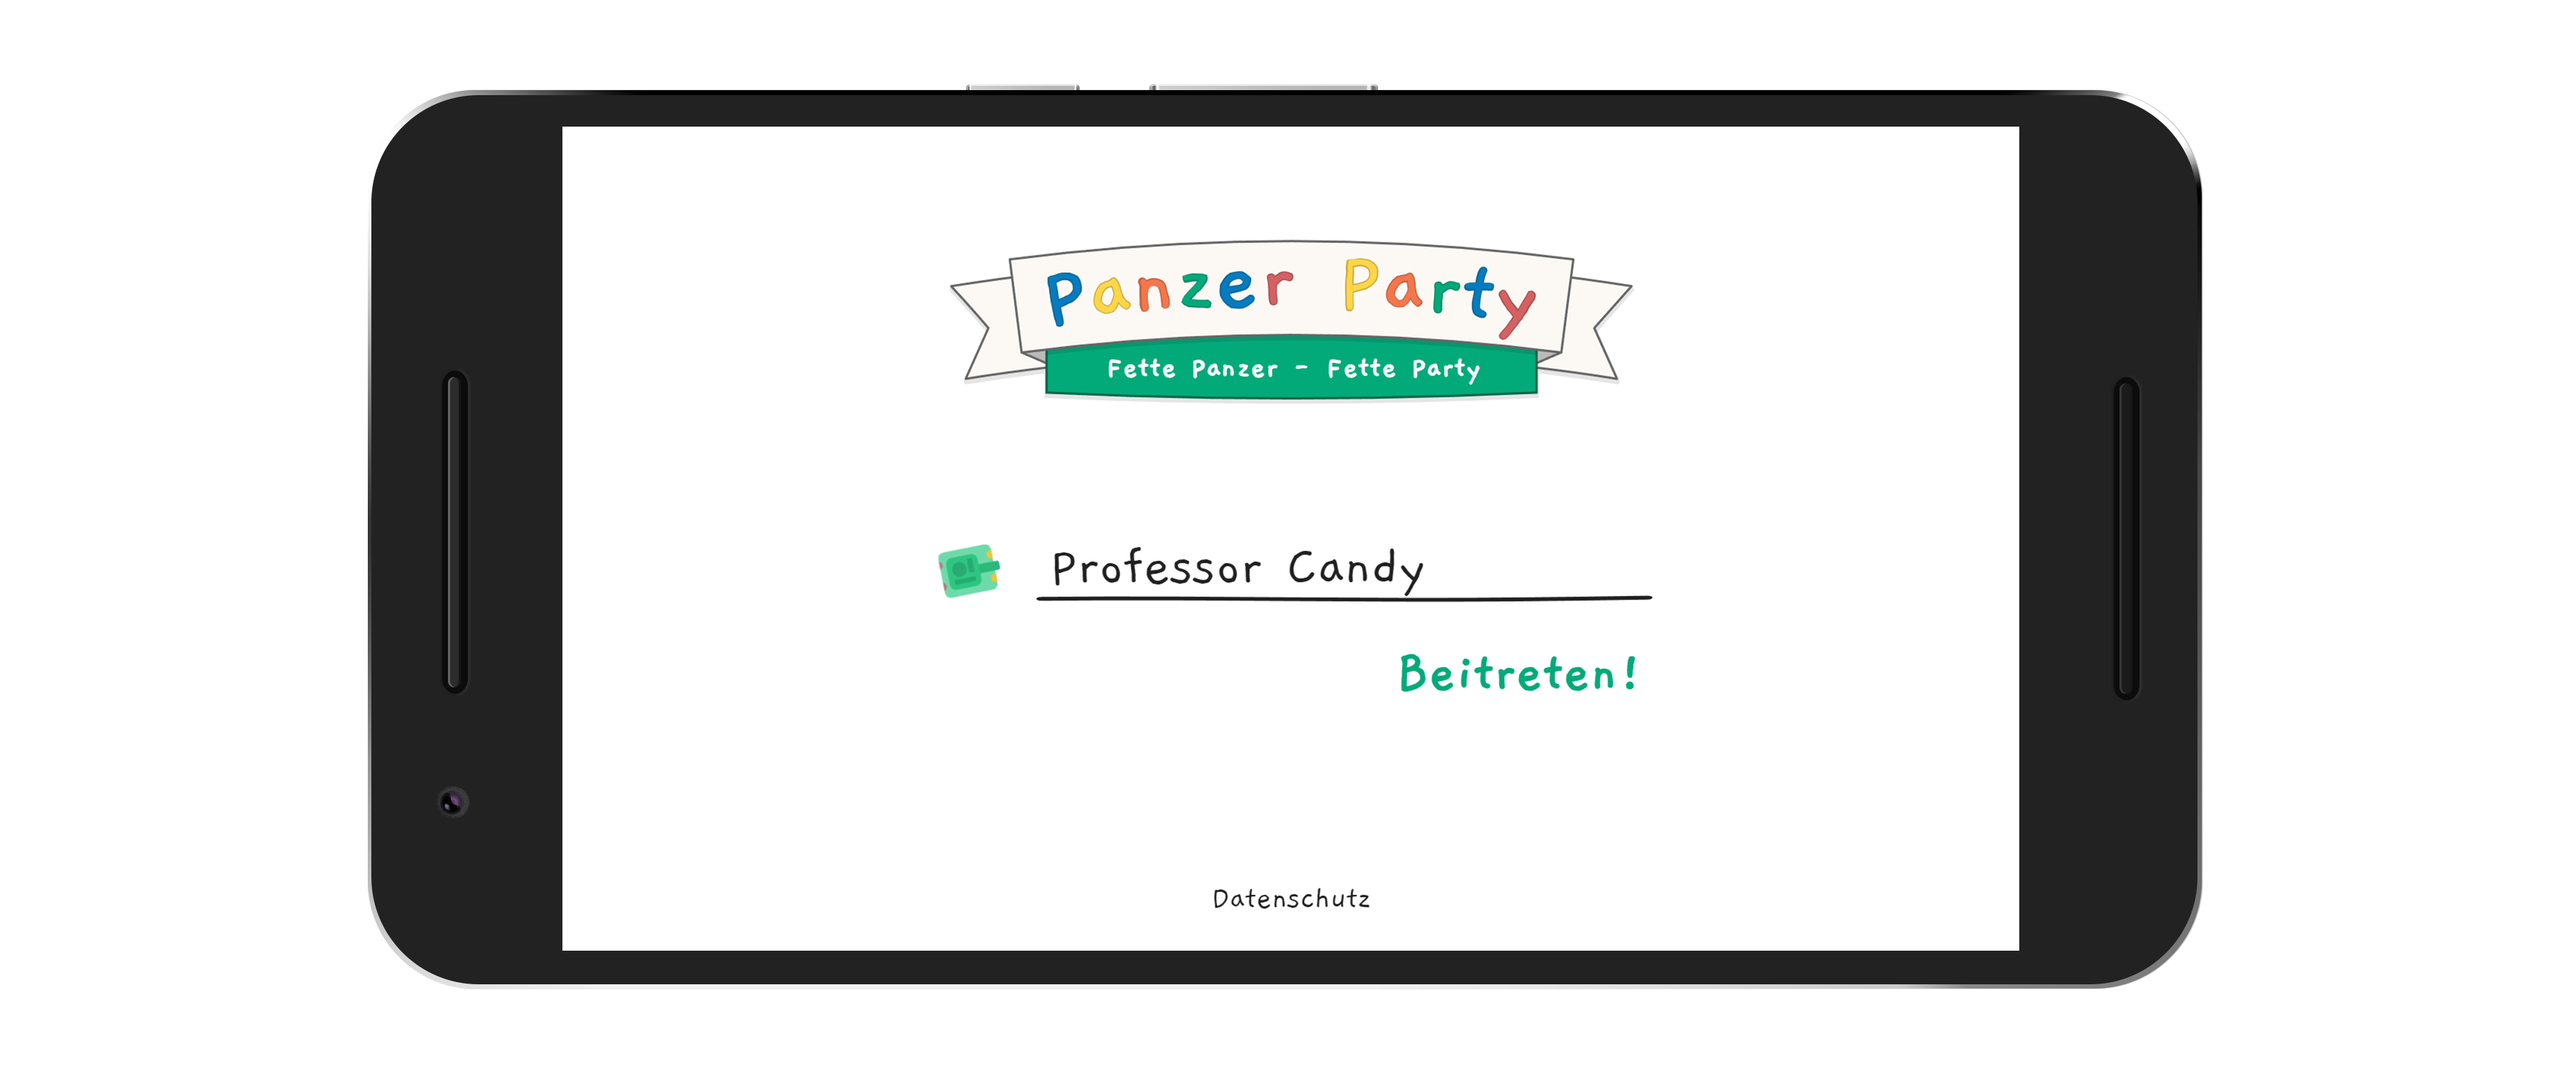
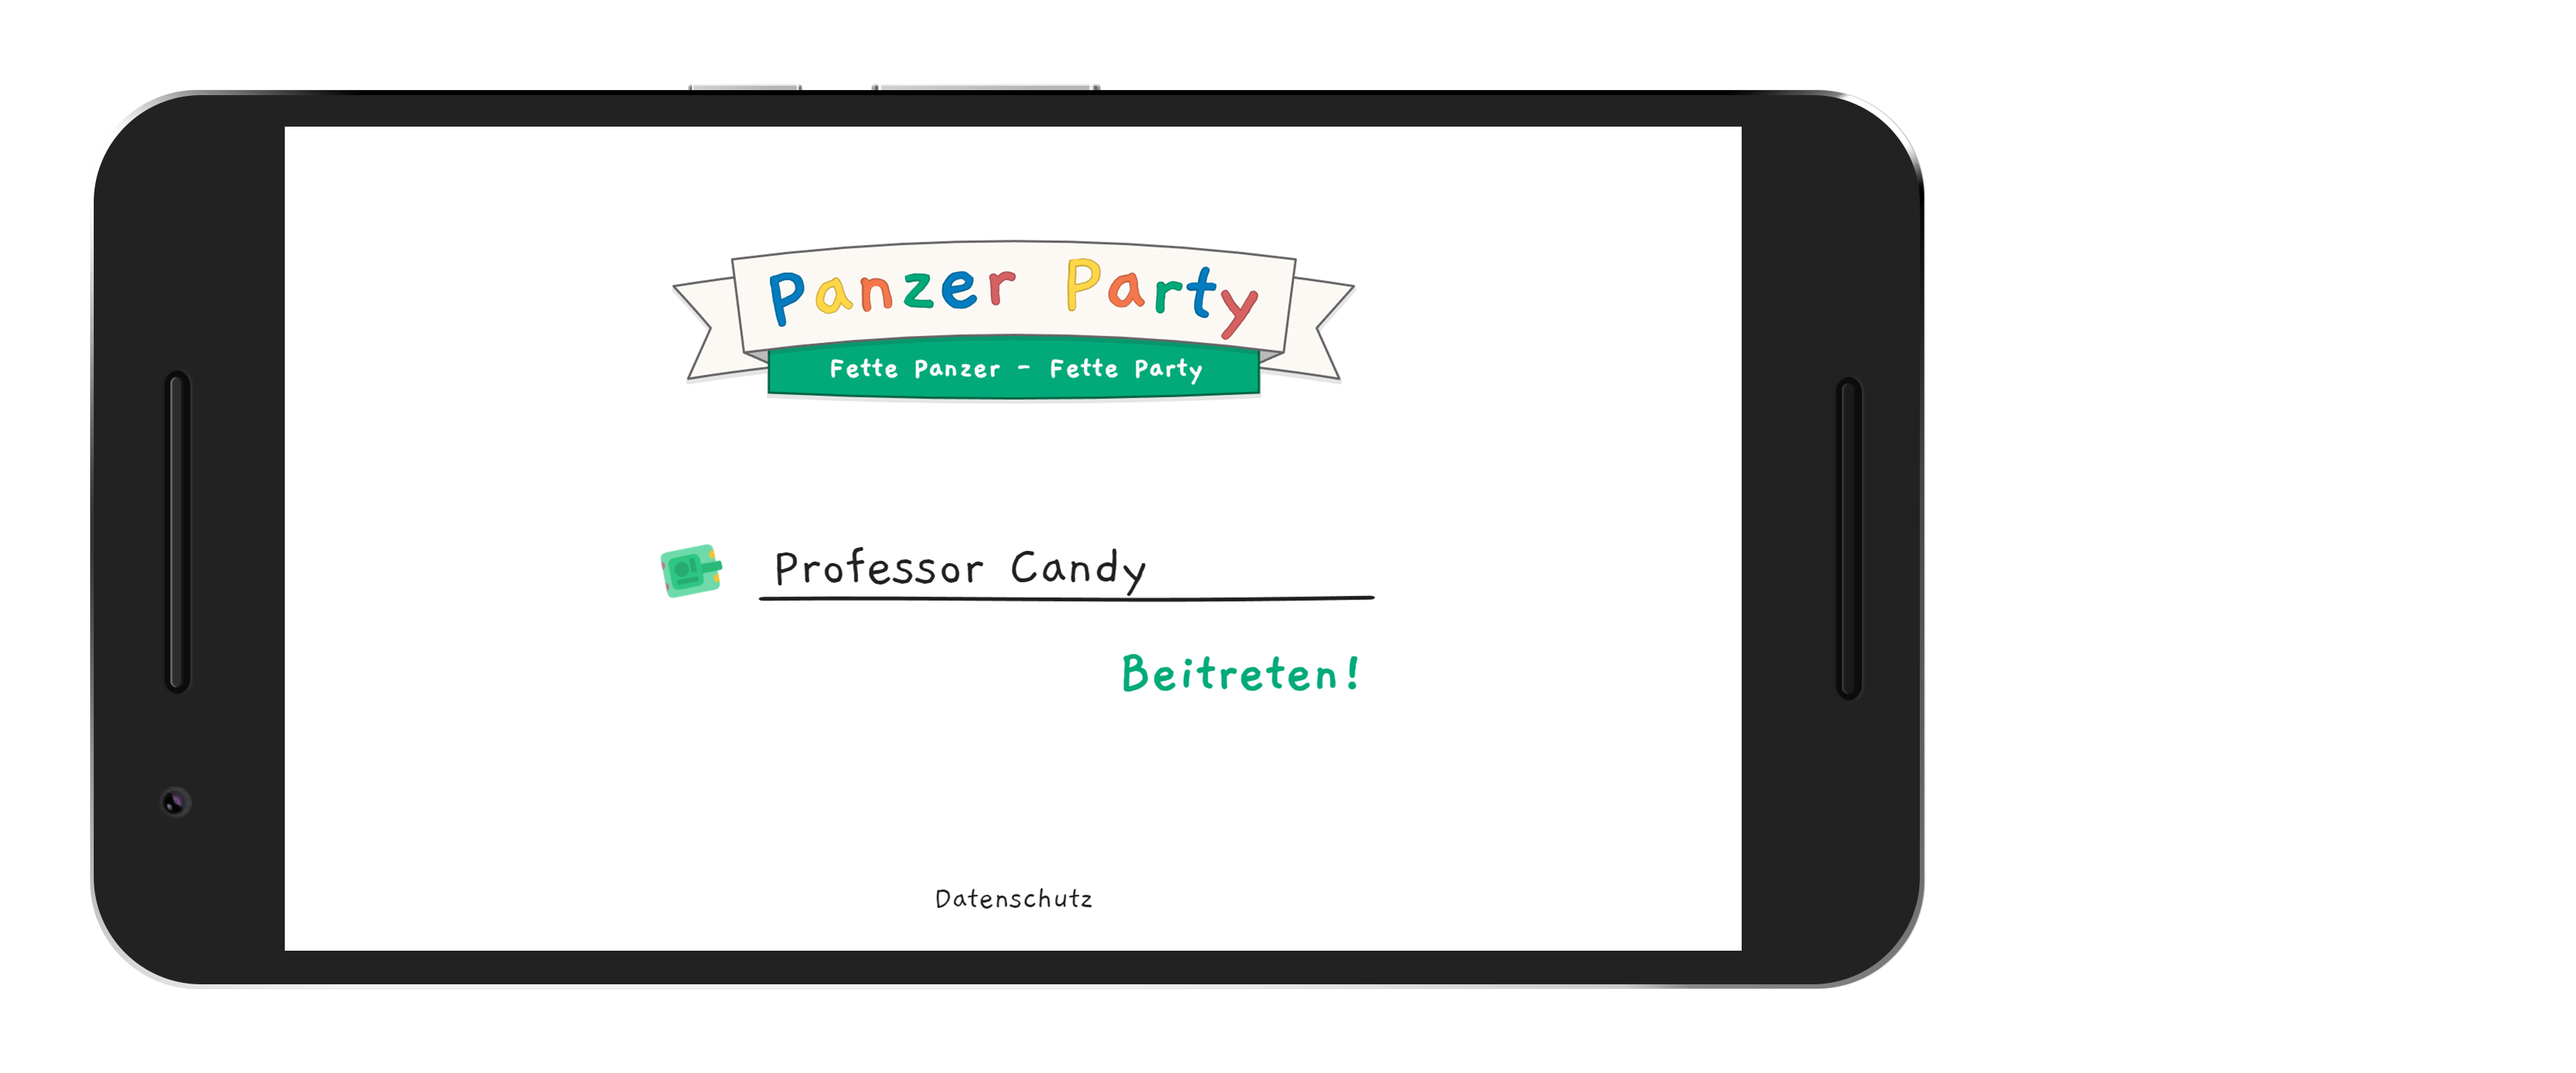
Fixes

diff --git a/public/scripts/drawing_functions.js b/public/scripts/drawing_functions.js
@@ -107,7 +107,30 @@ CanvasRenderingContext2D.prototype.drawLevel = function(level)
 		console.log("shape#"+s+" >> ", shape.color);
 		
 		
+		// shadow
 		this.beginPath();
+		for (var p in shape.path)
+		{
+			var pos = shape.path[p];
+			if (p == 0)
+			{
+				this.moveTo(pos.x*w+2, pos.y*h+2);
+			}
+			else
+			{
+				this.lineTo(pos.x*w+2, pos.y*h+2);
+			}
+		}
+		this.lineJoin = "bevel";
+		this.lineWidth = 6;
+		this.strokeStyle = "rgba(24, 24, 24, 0.08)";
+		if (s > 0) this.stroke();
+		this.closePath();
+		
+		
+		// main shape
+		this.beginPath();
+		this.lineJoin = "miter";
 		for (var p in shape.path)
 		{
 			var pos = shape.path[p];
@@ -178,46 +201,6 @@ CanvasRenderingContext2D.prototype.drawLevel = function(level)
 		this.stroke();
 		this.closePath();
 	}
-	
-	
-	// DEV grid
-	// for (var y=0; y<tiles.length; y++)
-	// {
-		// for (var x=0; x<tiles.length; x++)
-		// {
-			// this.beginPath();
-			// this.rect(x*w, y*h, w, h);
-			// this.strokeStyle = "rgba(0, 0, 0, 0.1)";
-			// this.stroke();
-			
-			// this.font = "7px Arial";
-			// this.textAlign = "center";
-			// this.textBaseline = "middle";
-			// this.fillStyle = "rgba(0, 0, 0, 1)";
-			// this.fillText(x+"/"+y, (x+0.5)*w, (y+0.5)*h);
-		// }
-	// }
-	
-	
-	// draw powerup spawn locations
-	// for (var p in level.powerup_locations)
-	// {
-		// var pos = level.powerup_locations[p];
-		
-		// this.beginPath();
-		// this.arc(pos.x*f, pos.y*f, 0.24*w, 0, 2*Math.PI);
-		// this.fillStyle = "hsl("+color.h+", "+(color.s*0.2)+"%, "+(100-(100-color.l)*0.5)+"%)";
-		// this.fill();
-		// this.strokeStyle = "hsl("+color.h+", "+(color.s*0.2)+"%, "+(100-(100-color.l)*0.7)+"%)";
-		// this.stroke();
-		// this.closePath();
-		
-		// this.beginPath();
-		// this.arc(pos.x*f, pos.y*f, 0.1*w, 0, 2*Math.PI);
-		// this.fillStyle = "hsl("+((color.h + 60) % 360)+", "+(color.s)+"%, "+(100-(100-color.l)*1)+"%)"; //"#eee";
-		// this.fill();
-		// this.closePath();
-	// }
 }
 
 

diff --git a/public/css/control.css b/public/css/control.css
@@ -403,10 +403,11 @@ body.ready #login {
 	font: inherit;
 	font-weight: bold;
 	background: transparent;
+	color: #0dab76;
 	
-    animation: button_animation 5s;
-    -moz-animation: button_animation 5s infinite; /* Firefox */
-    -webkit-animation: button_animation 5s infinite; /* Safari and Chrome */
+    /* animation: button_animation 5s; */
+    /* -moz-animation: button_animation 5s infinite; /* Firefox */ */
+    /* -webkit-animation: button_animation 5s infinite; /* Safari and Chrome */ */
 }
 
 #login #privacy {
